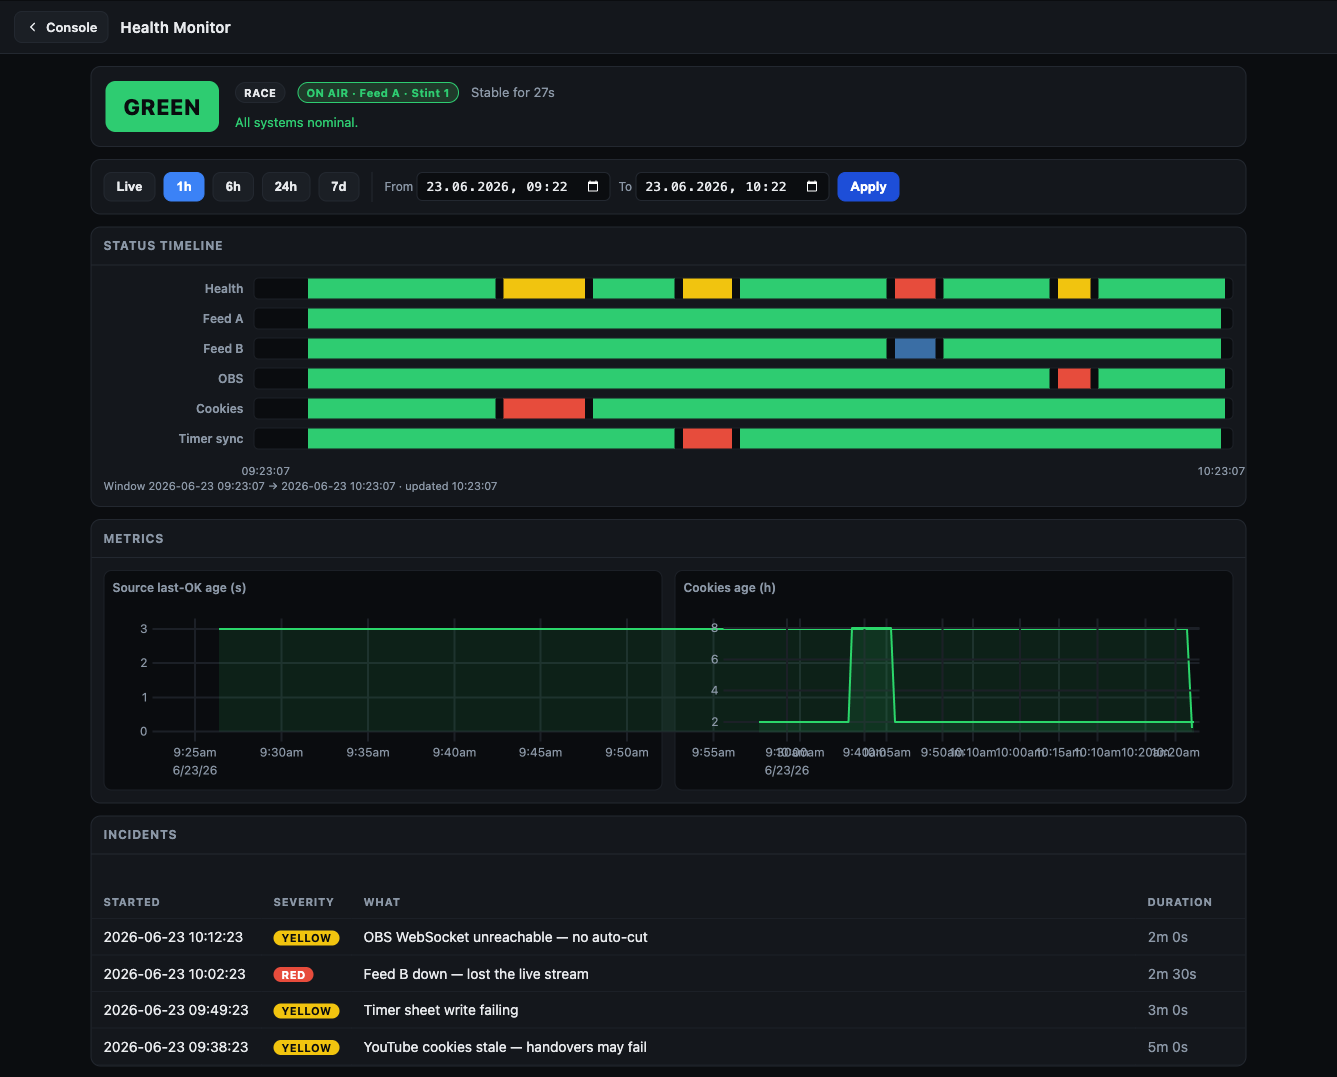
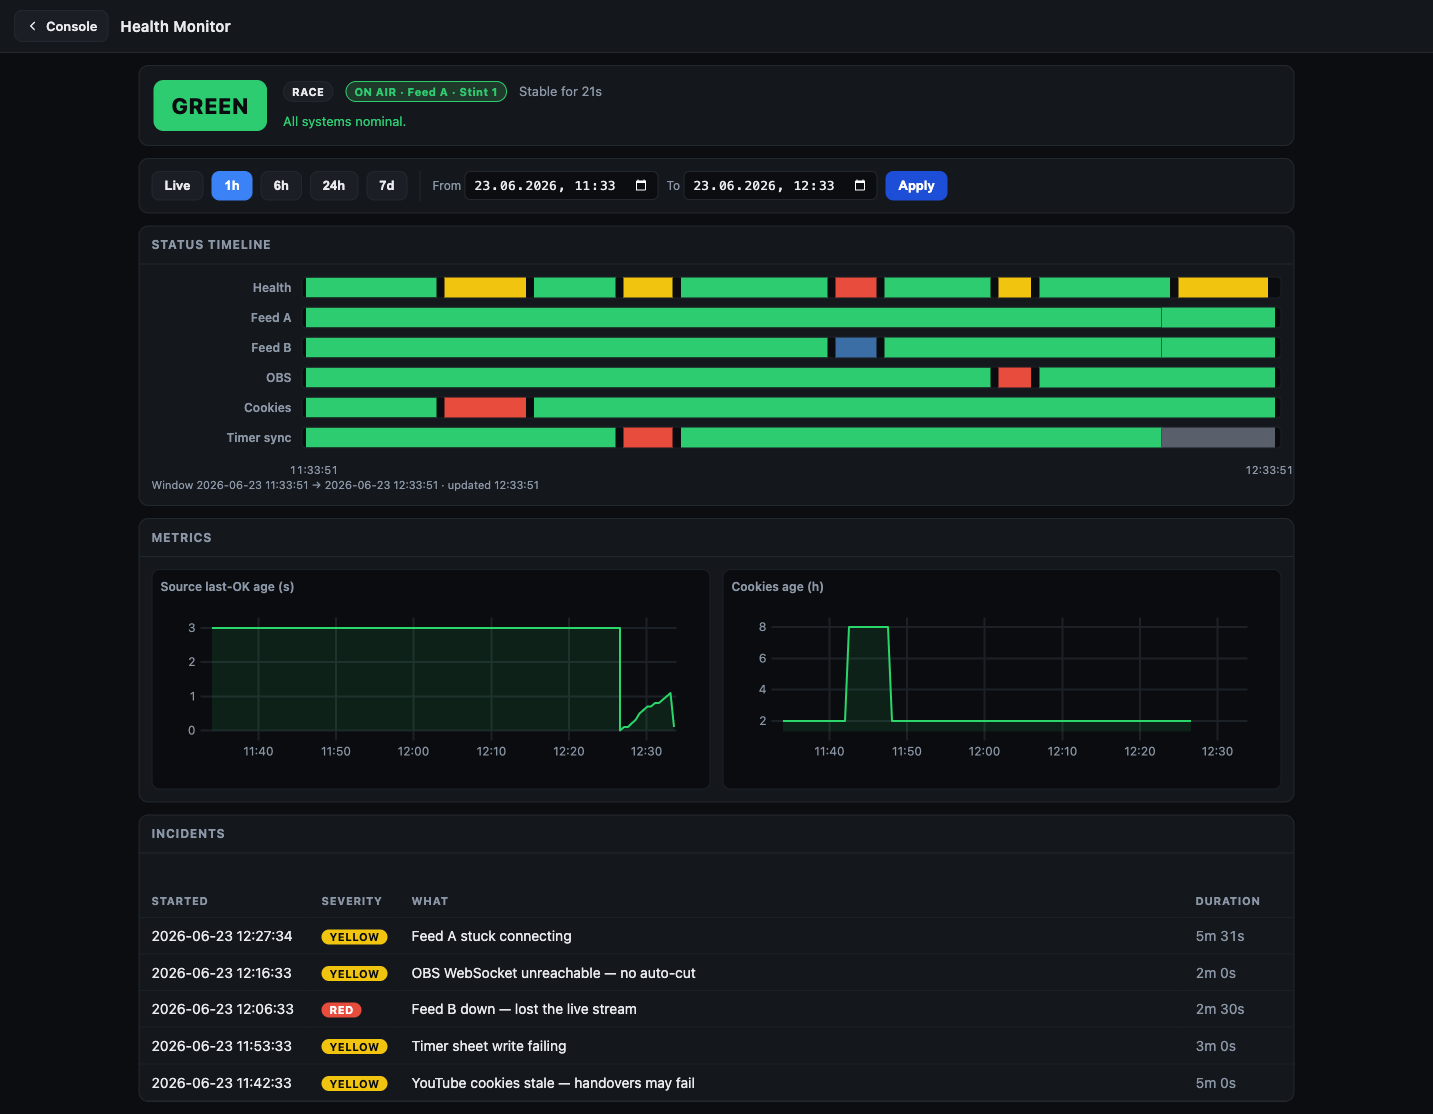
fix(health): chart x-axis label overlap + cross-panel line artifact
The metric charts read box.clientWidth before the CSS grid sized the
column, so uPlot computed tick density (and canvas width) for the wrong
width — labels overlapped and an over-wide canvas's flat line bled across
into the neighbouring panel. Size each chart to its real laid-out width
after layout (requestAnimationFrame) and on resize (ResizeObserver), and
render compact range-aware x labels (HH:MM / M/D) with a 72px min tick gap.
Recaptured the wiki screenshot.

diff --git a/src/console/health-monitor.html b/src/console/health-monitor.html
@@ -236,6 +236,7 @@ window.range = "live";
 let liveTimer = null;
 let rangeStart = 0, rangeEnd = 0;     // epoch seconds for the active fetch
 const charts = {};                    // key -> uPlot instance
+let chartResizeObs = null;            // keeps charts sized to their real column width
 
 // --- Helpers ---
 function pad2(n) { return String(n).padStart(2, "0"); }
@@ -247,6 +248,14 @@ function localDateTime(epoch) {
   const d = new Date(epoch * 1000);
   return d.getFullYear() + "-" + pad2(d.getMonth() + 1) + "-" + pad2(d.getDate()) +
          " " + pad2(d.getHours()) + ":" + pad2(d.getMinutes()) + ":" + pad2(d.getSeconds());
+}
+// uPlot x-axis tick label: compact + range-aware so labels never overlap in the
+// narrow half-width charts. HH:MM within a day; M/D once the range spans 2+ days.
+function fmtAxisTime(ts) {
+  const d = new Date(ts * 1000);
+  const span = (rangeEnd > rangeStart) ? (rangeEnd - rangeStart) : 0;
+  if (span >= 2 * 86400) return (d.getMonth() + 1) + "/" + d.getDate();
+  return pad2(d.getHours()) + ":" + pad2(d.getMinutes());
 }
 // "since"/duration humanizer -> e.g. "2h 14m", "3m 5s", "12s"
 function humanize(secs) {
@@ -436,7 +445,11 @@ function renderCharts(series) {
       legend: { show: false },
       scales: { x: { time: true, min: rangeStart, max: rangeEnd } },
       axes: [
-        { stroke: "#8b97a6", grid: { stroke: "#1c2027" }, ticks: { stroke: "#1c2027" } },
+        { stroke: "#8b97a6", grid: { stroke: "#1c2027" }, ticks: { stroke: "#1c2027" },
+          // Force a generous min gap between ticks so labels never overlap in the
+          // narrow half-width charts, and render a compact range-aware label
+          // (HH:MM within a day, M/D for multi-day ranges) — no stacked date row.
+          space: 72, values: (u, splits) => splits.map(fmtAxisTime) },
         { stroke: "#8b97a6", grid: { stroke: "#1c2027" }, ticks: { stroke: "#1c2027" } },
       ],
       series: [
@@ -454,6 +467,24 @@ function renderCharts(series) {
       box.appendChild(err);
     }
   });
+
+  // The CSS grid sizes the chart columns AFTER this synchronous build, so the
+  // box.clientWidth measured above can be stale (over-wide) — uPlot then packs
+  // too many x ticks for the real column and the labels overlap. Re-size every
+  // chart to its actual laid-out width once layout settles, and keep them synced
+  // when the container resizes.
+  const resizeCharts = () => {
+    Object.keys(charts).forEach((k) => {
+      const u = charts[k];
+      if (!u || !u.root || !u.root.parentNode) return;
+      const w = Math.max(280, u.root.parentNode.clientWidth - 16);
+      if (Math.abs(w - u.width) > 1) u.setSize({ width: w, height: 180 });
+    });
+  };
+  requestAnimationFrame(resizeCharts);
+  if (chartResizeObs) chartResizeObs.disconnect();
+  chartResizeObs = new ResizeObserver(resizeCharts);
+  chartResizeObs.observe(host);
 }
 
 // --- 5. Incident timeline ---